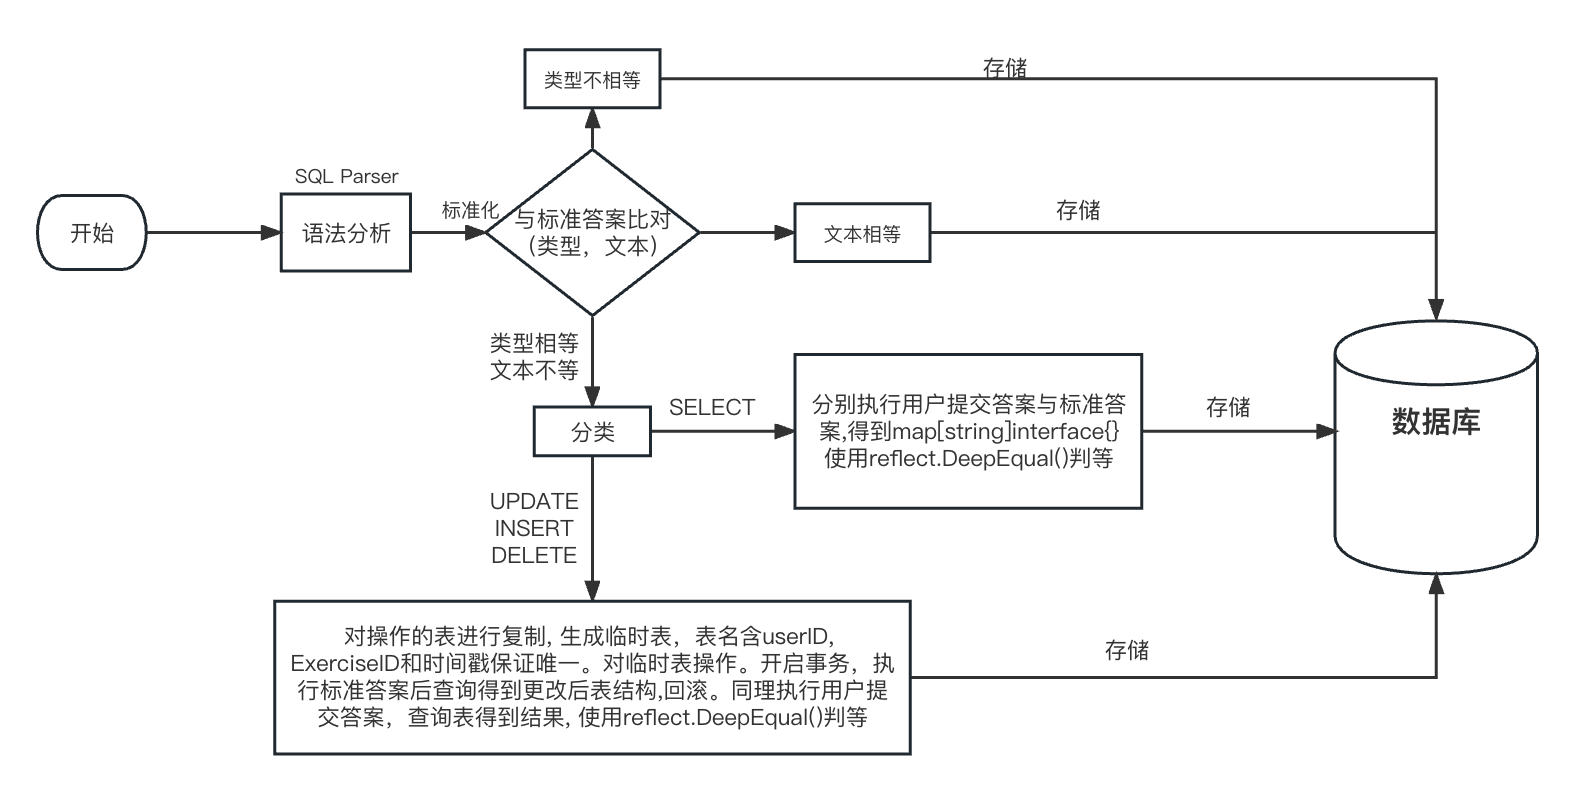
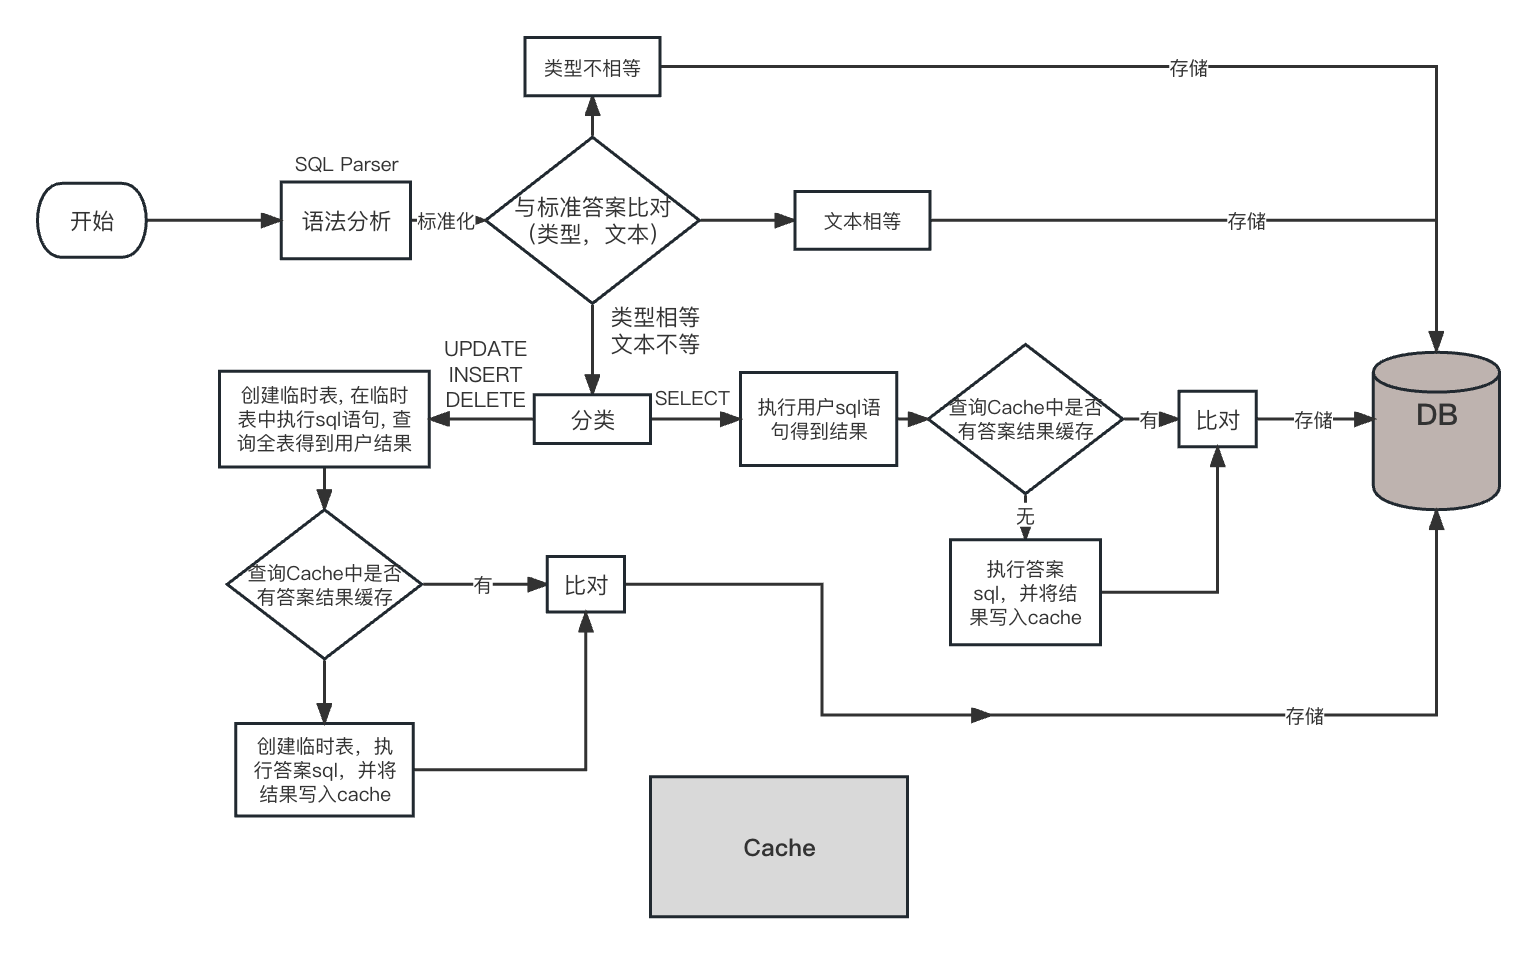
更新文档

Changed region(s): [[0.0, 0.0303, 0.9993, 0.9697], [0.6558, 0.3636, 0.6871, 0.3939], [0.1874, 0.6667, 0.2186, 0.697]]

diff --git a/doc/提交答案逻辑.md b/doc/提交答案逻辑.md
@@ -1,6 +1,6 @@
 # 用户提交做题答案逻辑
 
-![](src/请求判题逻辑.jpg)
+![](src/提交答案逻辑.jpg)
 
 后端收到提交答案请求后，将请求体中`userID`, `userType`, `exerciseID`, `answer`, `subimitTime`以及请求头中`UserAgent`保存在`SubmitMessage`结构体中并发送到`JudgeQueue`中。
 启动`SetJudgeStatusInQueue()`将包含`userID`, `userType`, `exerciseID`, `status`, `submitTimt.Unix()`当前判题信息写入缓存，并且将`status`设置为`1`。

diff --git a/doc/判题逻辑.md b/doc/判题逻辑.md
@@ -1,0 +1,3 @@
+# 判题逻辑
+如图
+![](src/判题逻辑.jpg)
